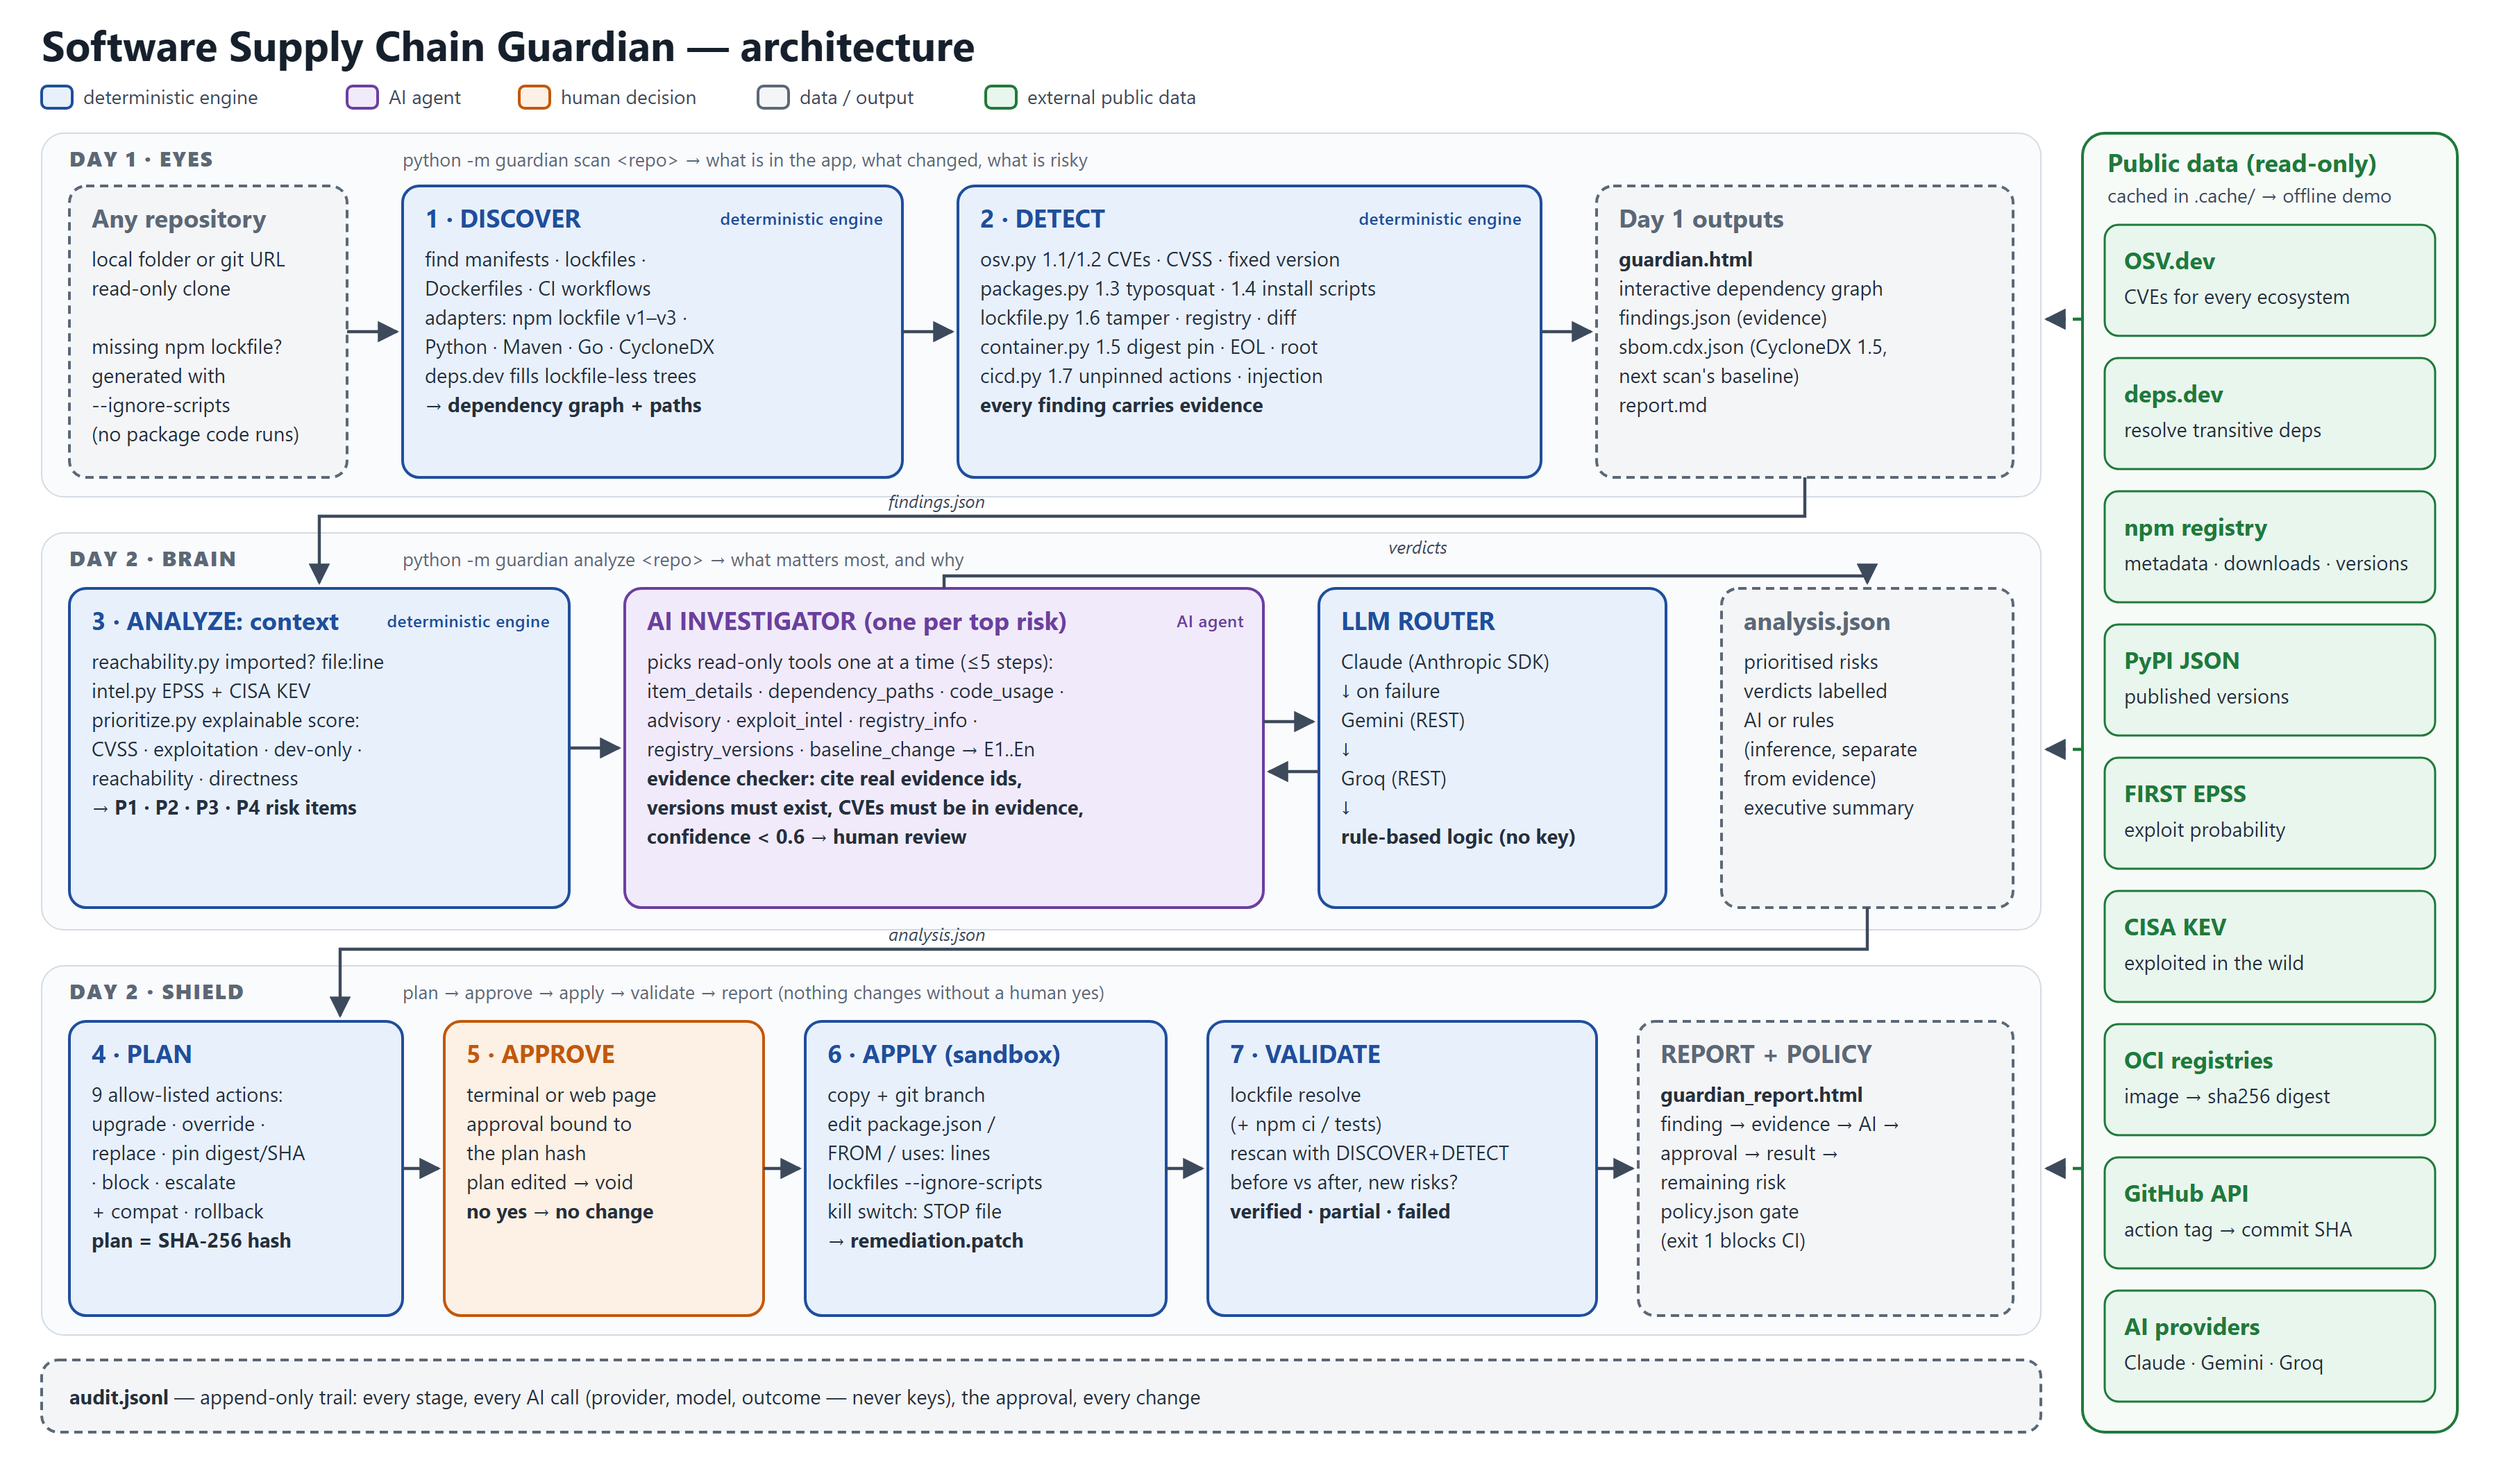
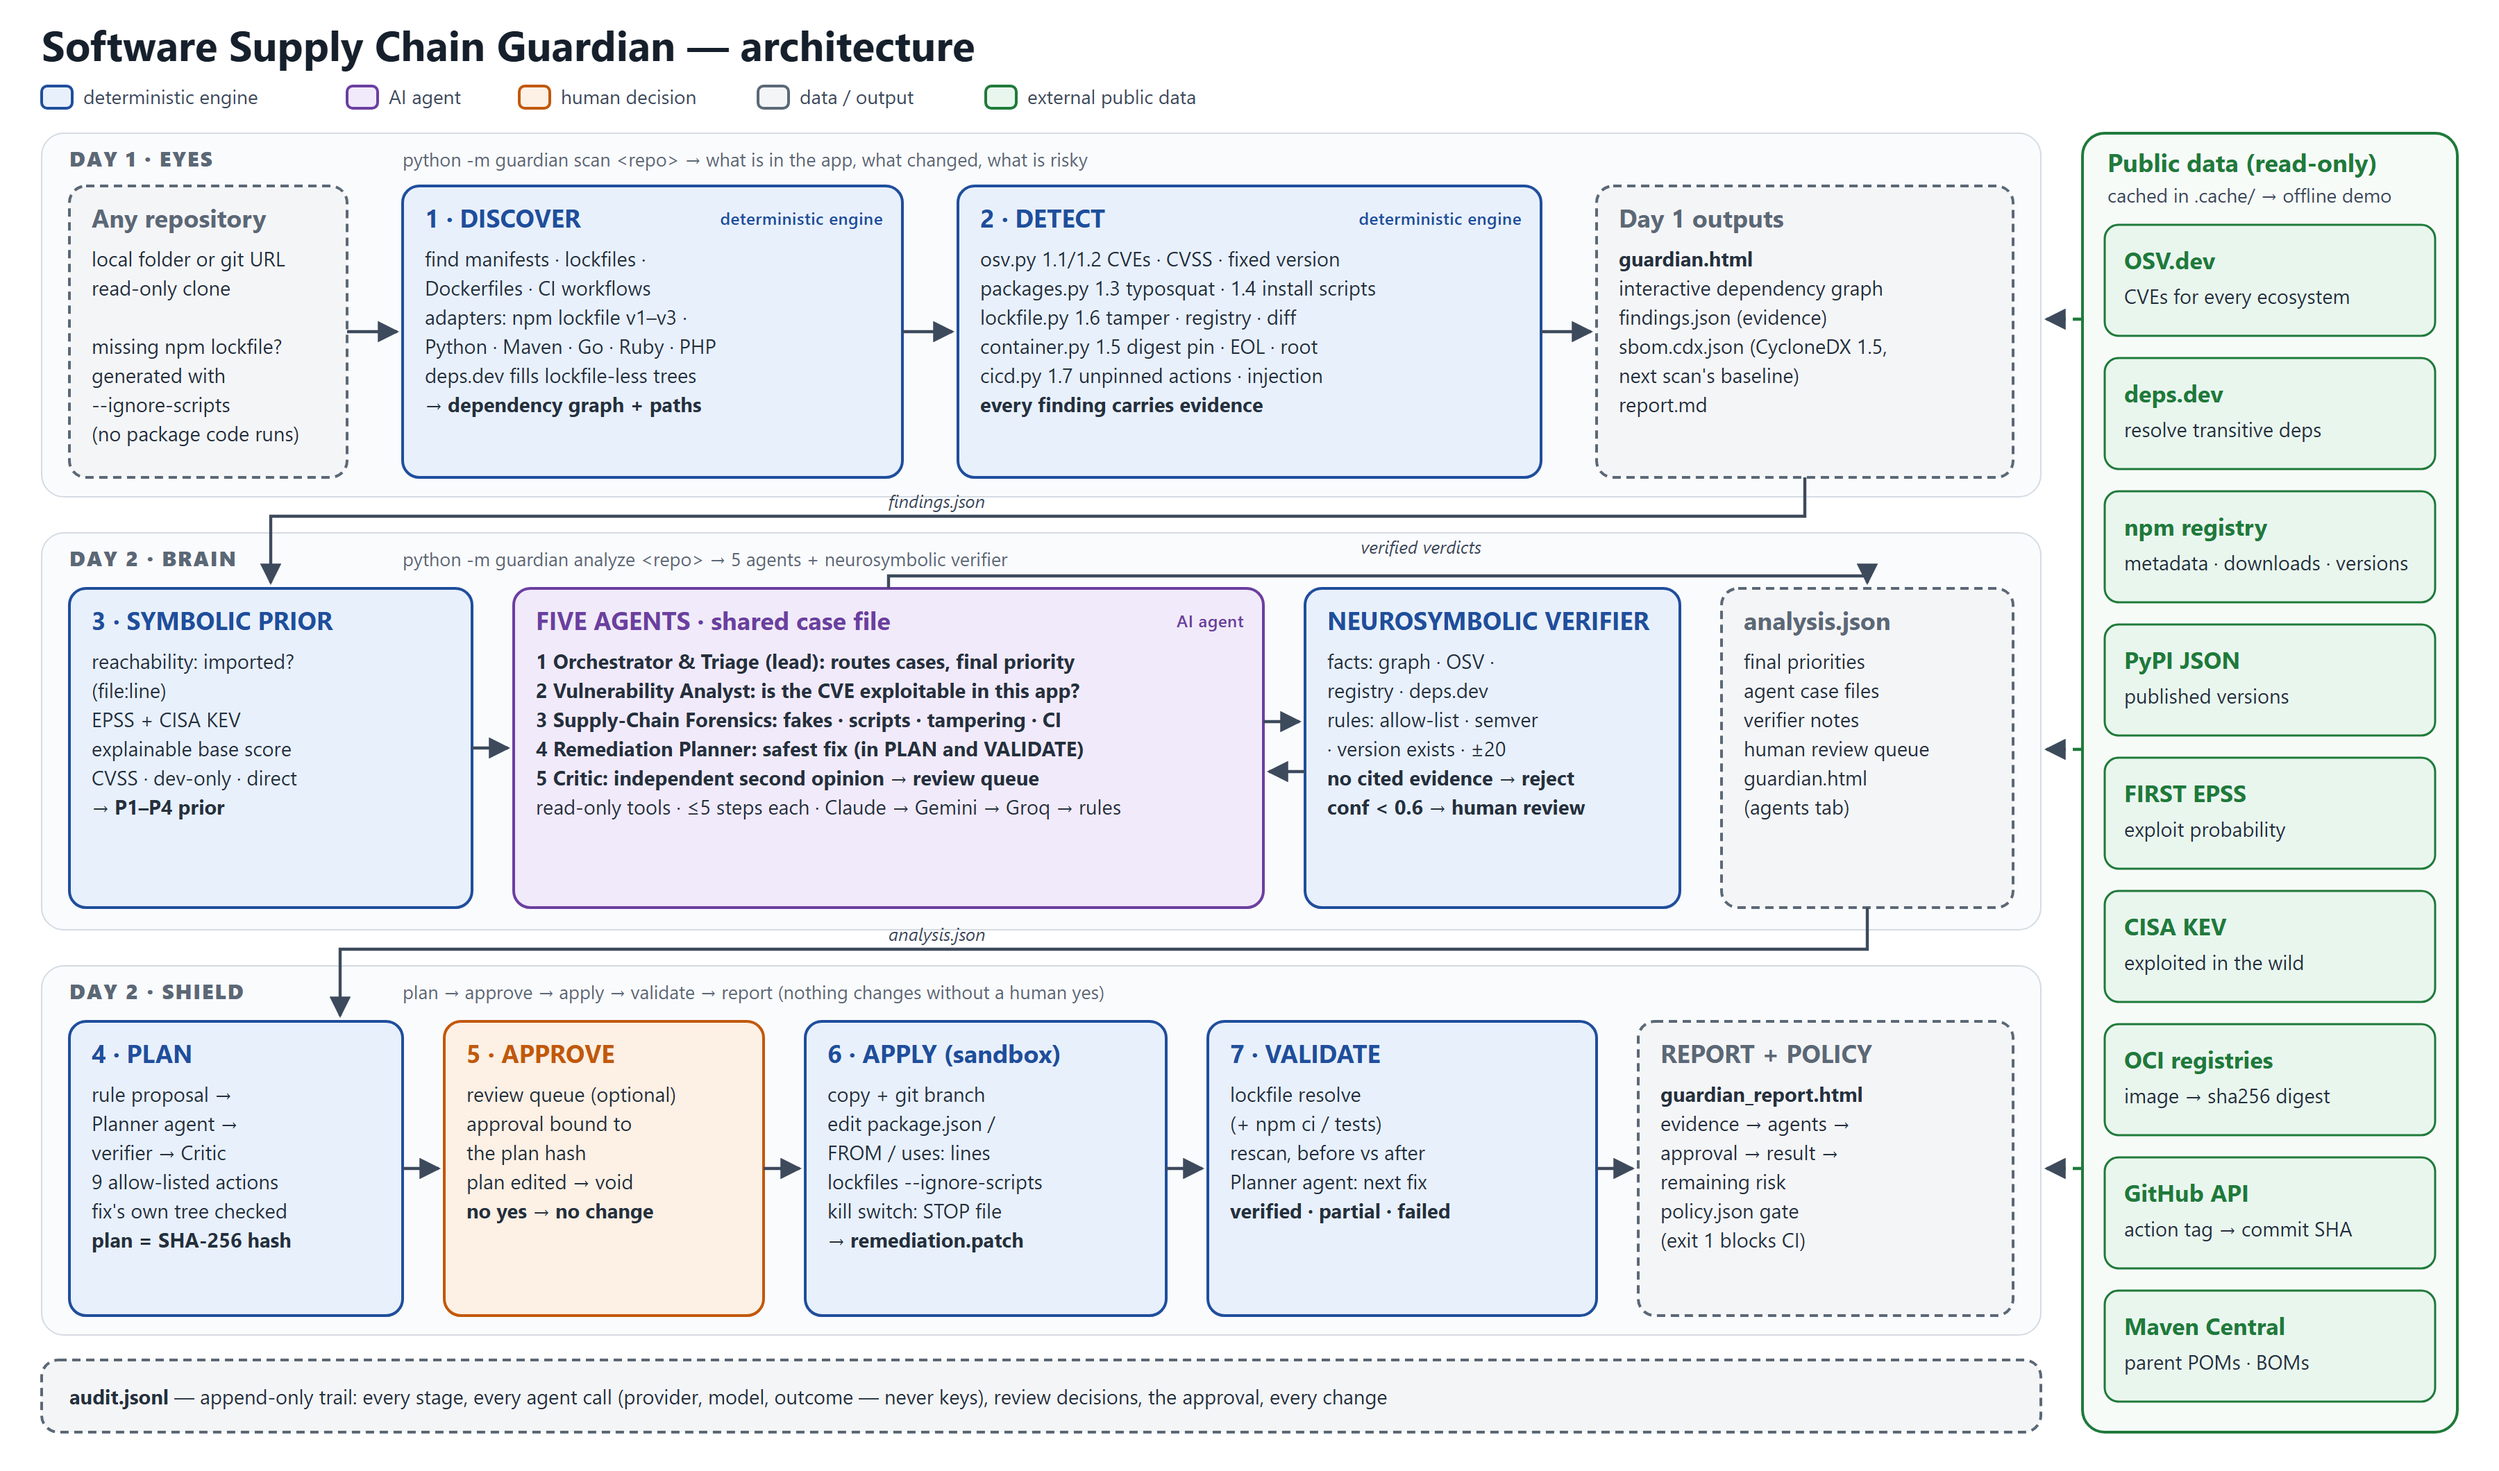
Architecture diagram: five agents and neurosymbolic verifier

diff --git a/scripts/make_architecture.py b/scripts/make_architecture.py
@@ -58,30 +58,30 @@ def build() -> str:
     # ---- band 1: Day 1 eyes
     band(96, 262, "DAY 1 · EYES", "python -m guardian scan <repo>  →  what is in the app, what changed, what is risky")
     box(50, 134, 200, 210, "data", "Any repository", ["local folder or git URL", "read-only clone", "", "missing npm lockfile?", "generated with", "--ignore-scripts", "(no package code runs)"], tag=False)
-    box(290, 134, 360, 210, "engine", "1 · DISCOVER", ["find manifests · lockfiles ·", "Dockerfiles · CI workflows", "adapters: npm lockfile v1–v3 ·", "Python · Maven · Go · CycloneDX", "deps.dev fills lockfile-less trees", "!→ dependency graph + paths"])
+    box(290, 134, 360, 210, "engine", "1 · DISCOVER", ["find manifests · lockfiles ·", "Dockerfiles · CI workflows", "adapters: npm lockfile v1–v3 ·", "Python · Maven · Go · Ruby · PHP", "deps.dev fills lockfile-less trees", "!→ dependency graph + paths"])
     box(690, 134, 420, 210, "engine", "2 · DETECT", ["osv.py        1.1/1.2 CVEs · CVSS · fixed version", "packages.py   1.3 typosquat · 1.4 install scripts", "lockfile.py   1.6 tamper · registry · diff", "container.py  1.5 digest pin · EOL · root", "cicd.py       1.7 unpinned actions · injection", "!every finding carries evidence"])
     box(1150, 134, 300, 210, "data", "Day 1 outputs", ["!guardian.html", "interactive dependency graph", "findings.json  (evidence)", "sbom.cdx.json  (CycloneDX 1.5,", "  next scan's baseline)", "report.md"], tag=False)
     arrow("M250 239 L286 239")
     arrow("M650 239 L686 239")
     arrow("M1110 239 L1146 239")
     # ---- band 2: brain
-    band(384, 286, "DAY 2 · BRAIN", "python -m guardian analyze <repo>  →  what matters most, and why")
-    box(50, 424, 360, 230, "engine", "3 · ANALYZE: context", ["reachability.py  imported? file:line", "intel.py  EPSS + CISA KEV", "prioritize.py  explainable score:", "  CVSS · exploitation · dev-only ·", "  reachability · directness", "!→ P1 · P2 · P3 · P4 risk items"])
-    box(450, 424, 460, 230, "agent", "AI INVESTIGATOR (one per top risk)", ["picks read-only tools one at a time (≤5 steps):", "item_details · dependency_paths · code_usage ·", "advisory · exploit_intel · registry_info ·", "registry_versions · baseline_change → E1..En", "!evidence checker: cite real evidence ids,", "!versions must exist, CVEs must be in evidence,", "!confidence < 0.6 → human review"])
-    box(950, 424, 250, 230, "engine", "LLM ROUTER", ["Claude  (Anthropic SDK)", "   ↓ on failure", "Gemini  (REST)", "   ↓", "Groq  (REST)", "   ↓", "!rule-based logic (no key)"], tag=False)
-    box(1240, 424, 210, 230, "data", "analysis.json", ["prioritised risks", "verdicts labelled", "AI or rules", "(inference, separate", "from evidence)", "executive summary"], tag=False)
-    arrow("M1300 344 L1300 372 L230 372 L230 420", "findings.json", 640, 366)
-    arrow("M410 539 L446 539")
-    arrow("M910 520 L946 520")
-    arrow("M950 556 L914 556")
-    arrow("M680 424 L680 415 L1345 415 L1345 420", "verdicts", 1000, 399)
+    band(384, 286, "DAY 2 · BRAIN", "python -m guardian analyze <repo>  →  5 agents + neurosymbolic verifier")
+    box(50, 424, 290, 230, "engine", "3 · SYMBOLIC PRIOR", ["reachability: imported?", "  (file:line)", "EPSS + CISA KEV", "explainable base score", "CVSS · dev-only · direct", "!→ P1–P4 prior"], tag=False)
+    box(370, 424, 540, 230, "agent", "FIVE AGENTS · shared case file", ["!1 Orchestrator & Triage (lead): routes cases, final priority", "!2 Vulnerability Analyst: is the CVE exploitable in this app?", "!3 Supply-Chain Forensics: fakes · scripts · tampering · CI", "!4 Remediation Planner: safest fix (in PLAN and VALIDATE)", "!5 Critic: independent second opinion → review queue", "read-only tools · ≤5 steps each · Claude → Gemini → Groq → rules"])
+    box(940, 424, 270, 230, "engine", "NEUROSYMBOLIC VERIFIER", ["facts: graph · OSV ·", "registry · deps.dev", "rules: allow-list · semver", "· version exists · ±20", "!no cited evidence → reject", "!conf < 0.6 → human review"], tag=False)
+    box(1240, 424, 210, 230, "data", "analysis.json", ["final priorities", "agent case files", "verifier notes", "human review queue", "guardian.html", "(agents tab)"], tag=False)
+    arrow("M1300 344 L1300 372 L195 372 L195 420", "findings.json", 640, 366)
+    arrow("M340 539 L366 539")
+    arrow("M910 520 L936 520")
+    arrow("M940 556 L914 556")
+    arrow("M640 424 L640 415 L1345 415 L1345 420", "verified verdicts", 980, 399)
     # ---- band 3: shield
     band(696, 266, "DAY 2 · SHIELD", "plan → approve → apply → validate → report   (nothing changes without a human yes)")
-    box(50, 736, 240, 212, "engine", "4 · PLAN", ["9 allow-listed actions:", "upgrade · override ·", "replace · pin digest/SHA", "· block · escalate", "+ compat · rollback", "!plan = SHA-256 hash"])
-    box(320, 736, 230, 212, "human", "5 · APPROVE", ["terminal or web page", "approval bound to", "the plan hash", "plan edited → void", "!no yes → no change"])
+    box(50, 736, 240, 212, "engine", "4 · PLAN", ["rule proposal →", "Planner agent →", "verifier → Critic", "9 allow-listed actions", "fix's own tree checked", "!plan = SHA-256 hash"])
+    box(320, 736, 230, 212, "human", "5 · APPROVE", ["review queue (optional)", "approval bound to", "the plan hash", "plan edited → void", "!no yes → no change"])
     box(580, 736, 260, 212, "engine", "6 · APPLY (sandbox)", ["copy + git branch", "edit package.json /", "FROM / uses: lines", "lockfiles --ignore-scripts", "kill switch: STOP file", "!→ remediation.patch"])
-    box(870, 736, 280, 212, "engine", "7 · VALIDATE", ["lockfile resolve", "(+ npm ci / tests)", "rescan with DISCOVER+DETECT", "before vs after, new risks?", "!verified · partial · failed"])
-    box(1180, 736, 270, 212, "data", "REPORT + POLICY", ["!guardian_report.html", "finding → evidence → AI →", "approval → result →", "remaining risk", "policy.json gate", "(exit 1 blocks CI)"], tag=False)
+    box(870, 736, 280, 212, "engine", "7 · VALIDATE", ["lockfile resolve", "(+ npm ci / tests)", "rescan, before vs after", "Planner agent: next fix", "!verified · partial · failed"])
+    box(1180, 736, 270, 212, "data", "REPORT + POLICY", ["!guardian_report.html", "evidence → agents →", "approval → result →", "remaining risk", "policy.json gate", "(exit 1 blocks CI)"], tag=False)
     arrow("M1345 654 L1345 684 L245 684 L245 732", "analysis.json", 640, 678)
     arrow("M290 842 L316 842")
     arrow("M550 842 L576 842")
@@ -89,7 +89,7 @@ def build() -> str:
     arrow("M1150 842 L1176 842")
     # ---- audit strip
     out.append('<rect x="30" y="980" width="1440" height="52" rx="12" fill="#f4f5f7" stroke="#5b6876" stroke-dasharray="6 4" stroke-width="2"/>')
-    out.append('<text x="50" y="1012" class="l"><tspan class="b">audit.jsonl</tspan> — append-only trail: every stage, every AI call (provider, model, outcome — never keys), the approval, every change</text>')
+    out.append('<text x="50" y="1012" class="l"><tspan class="b">audit.jsonl</tspan> — append-only trail: every stage, every agent call (provider, model, outcome — never keys), review decisions, the approval, every change</text>')
     # ---- external column
     s, f, _ = STYLE["ext"]
     out.append(f'<rect x="1500" y="96" width="270" height="936" rx="16" fill="#f7fbf8" stroke="{s}" stroke-width="2"/>')
@@ -99,7 +99,7 @@ def build() -> str:
            ("npm registry", "metadata · downloads · versions"), ("PyPI JSON", "published versions"),
            ("FIRST EPSS", "exploit probability"), ("CISA KEV", "exploited in the wild"),
            ("OCI registries", "image → sha256 digest"), ("GitHub API", "action tag → commit SHA"),
-           ("AI providers", "Claude · Gemini · Groq")]
+           ("Maven Central", "parent POMs · BOMs")]
     for i, (t, d) in enumerate(ext):
         y = 162 + i * 96
         out.append(f'<rect x="1516" y="{y}" width="238" height="80" rx="10" fill="{f}" stroke="{s}" stroke-width="1.5"/>')
